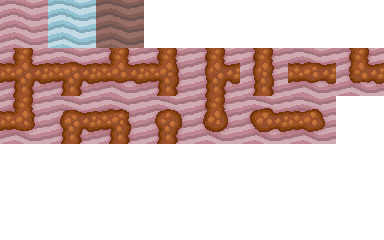
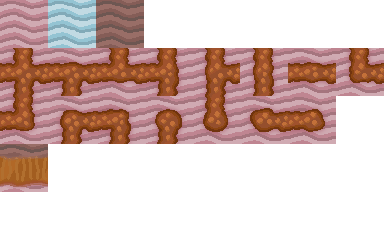
Created new tile

Changed region(s): [[0.0, 0.5833, 0.125, 0.8167]]

diff --git a/src/tile_image_loader.py b/src/tile_image_loader.py
@@ -28,12 +28,14 @@ path_13 = (192, 96, 48, 48)
 path_14 = (240, 96, 48, 48)
 path_15 = (288, 96, 48, 48)
 dark_ground = (96, 0, 48, 48)
+wall_1 = (0, 144, 48, 48)
 
 tiles = [generic_ground, water, path_1,
          path_2, path_3, path_4, path_5,
          path_6, path_7, path_8, path_9,
          path_10, path_11, path_12,
-         path_13, path_14, path_15, dark_ground]
+         path_13, path_14, path_15,
+         dark_ground, wall_1]
 images = []
 
 sprite_sheet = None

diff --git a/src/map_generator.py b/src/map_generator.py
@@ -29,7 +29,8 @@ tile_colors = {15724527: "00",
                6250335: "14",
                6776679: "15",
                7303023: "16",
-               15198183: "17"}
+               15198183: "17",
+               7829367: "18"}
 
 
 def generate_map(blueprint):
